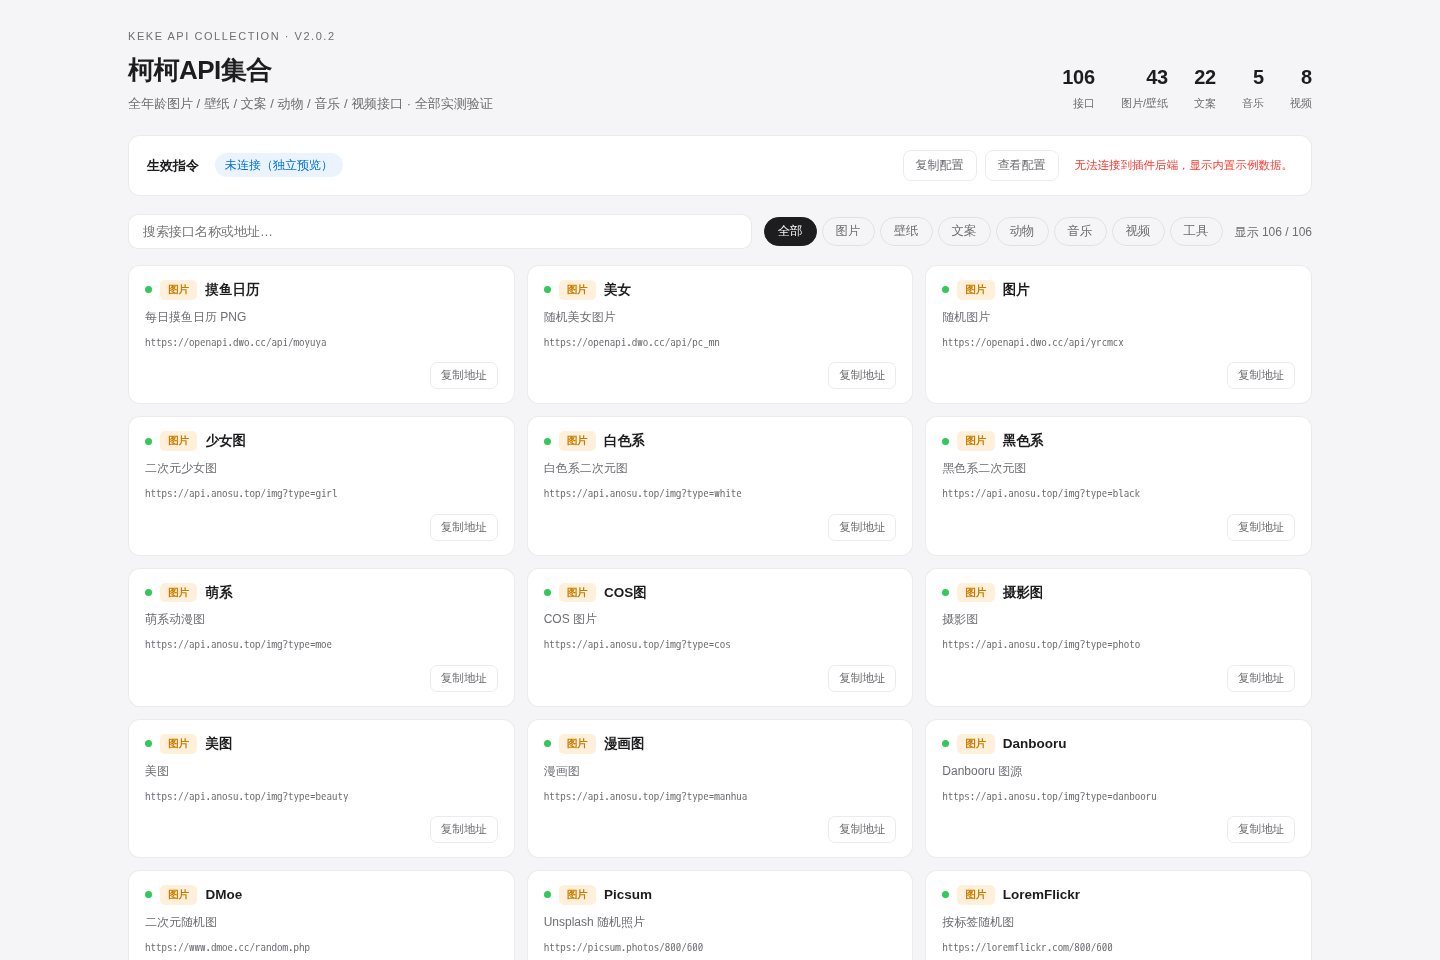
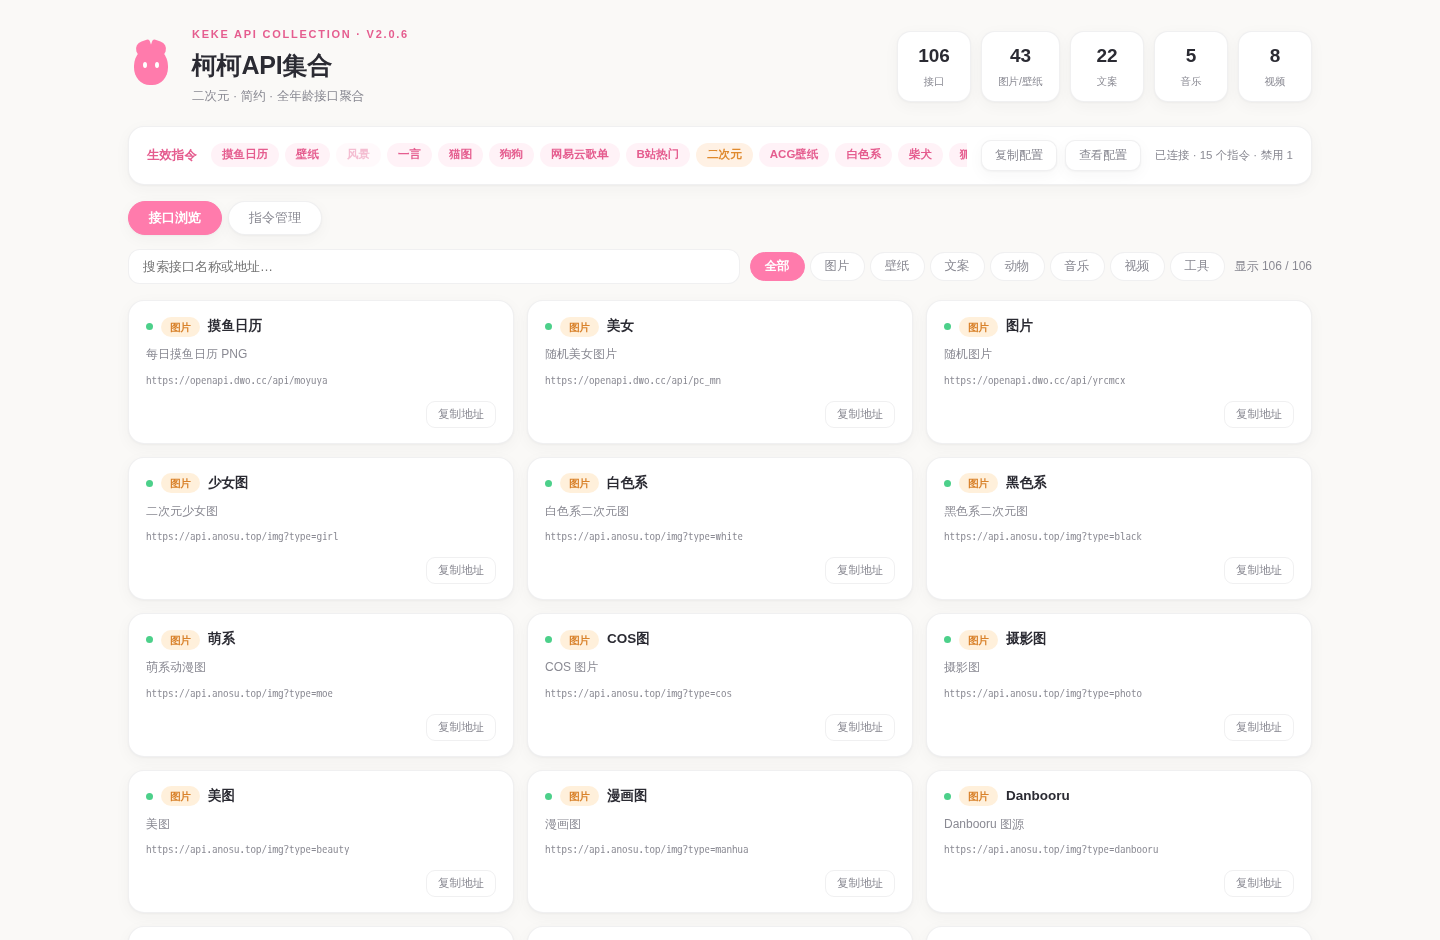
style(v2.0.6): WebUI 二次元简约风改版
- 依据 frontend-design skill 规范设计：暖白底+樱花粉主色+猫耳CSS logo+圆体标题
- 布局优化：统计卡片化、模式按钮胶囊化、卡片网格 hover 微动效
- 深色模式：深夜蓝底+柔和霓虹粉
- 实测：106 卡片/15 chips/浅深色主题均正常

diff --git a/pages/panel/index.html b/pages/panel/index.html
@@ -6,161 +6,211 @@
 <title>柯柯API集合 · 接口管理</title>
 <style>
   :root {
-    --bg: #f5f5f7; --bg-card: #ffffff; --fg: #1d1d1f; --fg-2: #6e6e73;
-    --border: rgba(0,0,0,0.08); --border-strong: rgba(0,0,0,0.14);
-    --accent: #0071e3; --accent-bg: rgba(0,113,227,0.08);
-    --green: #34c759; --red: #ff3b30;
-    --mono: ui-monospace, "SF Mono", SFMono-Regular, Menlo, Consolas, monospace;
-    --radius: 12px;
+    --bg: #faf9f7;
+    --bg-card: #ffffff;
+    --bg-soft: #f3f1ee;
+    --fg: #2b2b33;
+    --fg-2: #8a8a93;
+    --border: rgba(43,43,51,0.07);
+    --border-strong: rgba(43,43,51,0.14);
+    --accent: #ff7bac;
+    --accent-deep: #e55d8f;
+    --accent-bg: rgba(255,123,172,0.10);
+    --green: #4cd08a;
+    --red: #ff5b5b;
+    --mono: ui-monospace, "SF Mono", Menlo, Consolas, monospace;
+    --round: 16px;
+    --shadow: 0 1px 2px rgba(43,43,51,0.04), 0 4px 16px rgba(43,43,51,0.04);
   }
   [data-theme="dark"] {
-    --bg: #101012; --bg-card: #1c1c1f; --fg: #f5f5f7; --fg-2: #98989d;
-    --border: rgba(255,255,255,0.09); --border-strong: rgba(255,255,255,0.16);
-    --accent: #409cff; --accent-bg: rgba(64,156,255,0.13);
-    --green: #30d158; --red: #ff453a;
+    --bg: #16161c;
+    --bg-card: #1f1f27;
+    --bg-soft: #26262f;
+    --fg: #f0eef2;
+    --fg-2: #9a98a3;
+    --border: rgba(255,255,255,0.08);
+    --border-strong: rgba(255,255,255,0.16);
+    --accent: #ff8fb5;
+    --accent-deep: #ff7bac;
+    --accent-bg: rgba(255,143,181,0.13);
+    --green: #5be09a;
+    --red: #ff6b6b;
+    --shadow: 0 1px 2px rgba(0,0,0,0.3), 0 6px 20px rgba(0,0,0,0.25);
   }
   * { margin: 0; padding: 0; box-sizing: border-box; }
   body {
-    font-family: -apple-system, BlinkMacSystemFont, "SF Pro SC", "PingFang SC",
-                 "Hiragino Sans GB", "Microsoft YaHei", "Segoe UI", sans-serif;
-    background: var(--bg); color: var(--fg); line-height: 1.5;
-    -webkit-font-smoothing: antialiased; font-size: 14px;
+    font-family: -apple-system, BlinkMacSystemFont, "PingFang SC", "Hiragino Sans GB",
+                 "Microsoft YaHei", "Segoe UI", sans-serif;
+    background: var(--bg);
+    color: var(--fg);
+    line-height: 1.55;
+    -webkit-font-smoothing: antialiased;
+    font-size: 14px;
   }
-  .wrap { max-width: 1240px; margin: 0 auto; padding: 28px 28px 72px; }
+  .wrap { max-width: 1240px; margin: 0 auto; padding: 26px 28px 72px; }
 
-  header { display: flex; align-items: flex-end; justify-content: space-between; gap: 24px; flex-wrap: wrap; margin-bottom: 18px; }
-  .kicker { font-size: 11px; letter-spacing: 0.14em; color: var(--fg-2); text-transform: uppercase; margin-bottom: 6px; }
-  h1 { font-size: 26px; font-weight: 700; letter-spacing: -0.02em; }
-  .sub { color: var(--fg-2); font-size: 13px; margin-top: 4px; }
-  .stats { display: flex; gap: 26px; }
-  .stat { text-align: right; }
-  .stat b { font-size: 20px; font-weight: 650; display: block; font-variant-numeric: tabular-nums; }
-  .stat span { font-size: 11px; color: var(--fg-2); }
+  /* ---------- 头部：猫耳 logo + 左对齐 + 统计卡片 ---------- */
+  header { display: flex; align-items: center; gap: 18px; margin-bottom: 20px; flex-wrap: wrap; }
+  .logo { position: relative; width: 46px; height: 46px; flex: none; }
+  .logo .face {
+    position: absolute; inset: 4px 6px; background: var(--accent);
+    border-radius: 50% 50% 46% 46%;
+  }
+  .logo .ear { position: absolute; top: -2px; width: 16px; height: 16px; background: var(--accent); }
+  .logo .ear.l { left: 8px; transform: rotate(-18deg); border-radius: 60% 20% 60% 60%; }
+  .logo .ear.r { right: 8px; transform: rotate(18deg); border-radius: 20% 60% 60% 60%; }
+  .logo .eye { position: absolute; top: 19px; width: 4px; height: 6px; background: #fff; border-radius: 50%; }
+  .logo .eye.l { left: 15px; } .logo .eye.r { right: 15px; }
+  .head-txt { flex: 1; min-width: 200px; }
+  .kicker { font-size: 11px; letter-spacing: 0.16em; color: var(--accent-deep); font-weight: 600; text-transform: uppercase; margin-bottom: 3px; }
+  h1 { font-size: 25px; font-weight: 700; letter-spacing: -0.01em; font-family: "Yuanti SC", "YouYuan", "PingFang SC", sans-serif; }
+  .sub { color: var(--fg-2); font-size: 12.5px; margin-top: 2px; }
+  .stats { display: flex; gap: 10px; flex-wrap: wrap; }
+  .stat {
+    background: var(--bg-card); border: 1px solid var(--border); border-radius: 14px;
+    padding: 9px 16px; text-align: center; min-width: 74px; box-shadow: var(--shadow);
+  }
+  .stat b { font-size: 19px; font-weight: 700; display: block; font-variant-numeric: tabular-nums; color: var(--fg); }
+  .stat span { font-size: 10.5px; color: var(--fg-2); }
 
+  /* ---------- 生效指令胶囊条 ---------- */
   .live {
-    background: var(--bg-card); border: 1px solid var(--border); border-radius: var(--radius);
-    padding: 13px 18px; margin-bottom: 16px; display: flex; align-items: center; gap: 14px; flex-wrap: wrap;
+    background: var(--bg-card); border: 1px solid var(--border); border-radius: var(--round);
+    padding: 13px 18px; margin-bottom: 16px; display: flex; align-items: center; gap: 14px;
+    flex-wrap: wrap; box-shadow: var(--shadow);
   }
-  .live .lv-title { font-size: 13px; font-weight: 650; flex: none; white-space: nowrap; }
-  .live .chips { display: flex; gap: 6px; overflow-x: auto; flex: 1; min-width: 200px; padding-bottom: 2px; scrollbar-width: thin; }
-  .chip { flex: none; font-size: 12px; padding: 3px 10px; border-radius: 999px; background: var(--accent-bg); color: var(--accent); font-weight: 500; }
-  .chip.custom { background: rgba(255,149,0,0.14); color: #c77d00; }
-  [data-theme="dark"] .chip.custom { color: #ffb340; }
+  .live .lv-title { font-size: 12.5px; font-weight: 700; flex: none; white-space: nowrap; color: var(--accent-deep); }
+  .live .chips { display: flex; gap: 6px; overflow-x: auto; flex: 1; min-width: 180px; padding-bottom: 2px; scrollbar-width: thin; }
+  .chip { flex: none; font-size: 11.5px; padding: 3px 11px; border-radius: 999px; background: var(--accent-bg); color: var(--accent-deep); font-weight: 600; }
+  .chip.custom { background: rgba(255,159,67,0.14); color: #e08a2e; }
+  [data-theme="dark"] .chip.custom { color: #ffb066; }
   .live .tools { display: flex; gap: 8px; flex: none; }
   .btn {
-    border: 1px solid var(--border); background: transparent; color: var(--fg-2);
-    border-radius: 8px; font-size: 12px; padding: 6px 12px; cursor: pointer;
-    font-family: inherit; transition: all .15s; white-space: nowrap;
+    border: 1px solid var(--border); background: var(--bg-card); color: var(--fg-2);
+    border-radius: 10px; font-size: 12px; padding: 6px 13px; cursor: pointer;
+    font-family: inherit; transition: all .18s; white-space: nowrap; box-shadow: var(--shadow);
   }
-  .btn:hover { border-color: var(--accent); color: var(--accent); }
-  .btn.primary { background: var(--accent); border-color: var(--accent); color: #fff; }
-  .btn.primary:hover { opacity: .9; }
+  .btn:hover { border-color: var(--accent); color: var(--accent-deep); }
+  .btn.primary { background: var(--accent); border-color: var(--accent); color: #fff; font-weight: 600; }
+  .btn.primary:hover { opacity: .9; color: #fff; }
   .btn.danger:hover { border-color: var(--red); color: var(--red); }
   .btn.done { border-color: var(--green); color: var(--green); }
   .live .status-line { font-size: 11.5px; color: var(--fg-2); flex: none; }
   .live .status-line.error { color: var(--red); }
-  .cfg-text { display: none; width: 100%; margin-top: 10px; background: var(--bg); border: 1px solid var(--border); border-radius: 10px; font-family: var(--mono); font-size: 11px; color: var(--fg-2); padding: 12px 14px; max-height: 200px; overflow: auto; white-space: pre; }
+  .cfg-text { display: none; width: 100%; margin-top: 10px; background: var(--bg-soft); border: 1px solid var(--border); border-radius: 12px; font-family: var(--mono); font-size: 11px; color: var(--fg-2); padding: 12px 14px; max-height: 200px; overflow: auto; white-space: pre; }
   .cfg-text.show { display: block; }
 
-  /* 模式切换 */
-  .mode-tabs { display: flex; gap: 5px; margin-bottom: 14px; }
+  /* ---------- 模式切换 ---------- */
+  .mode-tabs { display: flex; gap: 6px; margin-bottom: 14px; }
   .mode {
     border: 1px solid var(--border); background: var(--bg-card); color: var(--fg-2);
-    border-radius: 9px 9px 0 0; padding: 8px 18px; font-size: 13px; cursor: pointer;
-    font-family: inherit; transition: all .15s; border-bottom: none;
+    border-radius: 999px; padding: 7px 20px; font-size: 13px; cursor: pointer;
+    font-family: inherit; transition: all .18s; box-shadow: var(--shadow);
   }
-  .mode.active { color: var(--fg); font-weight: 600; box-shadow: inset 0 -2px 0 var(--accent); }
-  .mode:hover { color: var(--fg); }
+  .mode.active { background: var(--accent); border-color: var(--accent); color: #fff; font-weight: 600; }
+  .mode:hover { color: var(--accent-deep); }
+  .mode.active:hover { color: #fff; }
 
-  /* 浏览模式 */
-  .toolbar { display: flex; gap: 12px; margin-bottom: 16px; align-items: center; flex-wrap: wrap; }
+  /* ---------- 工具栏 ---------- */
+  .toolbar { display: flex; gap: 10px; margin-bottom: 16px; align-items: center; flex-wrap: wrap; }
   input[type="search"], input[type="text"] {
-    background: var(--bg-card); border: 1px solid var(--border); border-radius: 10px;
-    color: var(--fg); padding: 9px 14px; font-size: 13px; outline: none;
-    transition: border-color .15s, box-shadow .15s; font-family: inherit;
+    background: var(--bg-card); border: 1px solid var(--border); border-radius: 12px;
+    color: var(--fg); padding: 9px 14px; font-size: 13px; outline: none; font-family: inherit;
+    transition: border-color .18s, box-shadow .18s;
   }
-  input[type="search"] { flex: 1; min-width: 240px; }
+  input[type="search"] { flex: 1; min-width: 230px; }
   input[type="search"]:focus, input[type="text"]:focus { border-color: var(--accent); box-shadow: 0 0 0 3px var(--accent-bg); }
   .tabs { display: flex; gap: 5px; flex-wrap: wrap; }
-  .tab { border: 1px solid var(--border); background: transparent; color: var(--fg-2); border-radius: 999px; padding: 5px 13px; font-size: 12.5px; cursor: pointer; transition: all .15s; font-family: inherit; }
-  .tab:hover { color: var(--fg); }
-  .tab.active { background: var(--fg); border-color: var(--fg); color: var(--bg); }
+  .tab { border: 1px solid var(--border); background: var(--bg-card); color: var(--fg-2); border-radius: 999px; padding: 5px 14px; font-size: 12.5px; cursor: pointer; transition: all .18s; font-family: inherit; }
+  .tab:hover { color: var(--accent-deep); border-color: var(--accent); }
+  .tab.active { background: var(--accent); border-color: var(--accent); color: #fff; font-weight: 600; }
   .count { font-size: 12px; color: var(--fg-2); margin-left: auto; font-variant-numeric: tabular-nums; }
 
-  .grid { display: grid; grid-template-columns: repeat(auto-fill, minmax(300px, 1fr)); gap: 12px; }
-  .card { background: var(--bg-card); border: 1px solid var(--border); border-radius: var(--radius); padding: 14px 16px; display: flex; flex-direction: column; gap: 8px; transition: border-color .15s; }
-  .card:hover { border-color: var(--border-strong); }
+  /* ---------- 卡片网格 ---------- */
+  .grid { display: grid; grid-template-columns: repeat(auto-fill, minmax(295px, 1fr)); gap: 13px; }
+  .card {
+    background: var(--bg-card); border: 1px solid var(--border); border-radius: var(--round);
+    padding: 15px 17px; display: flex; flex-direction: column; gap: 8px;
+    transition: transform .18s, border-color .18s, box-shadow .18s; box-shadow: var(--shadow);
+  }
+  .card:hover { transform: translateY(-2px); border-color: var(--accent); box-shadow: 0 6px 24px var(--accent-bg); }
   .card-top { display: flex; align-items: center; gap: 8px; }
   .dot { width: 7px; height: 7px; border-radius: 50%; flex: none; }
   .dot.ok { background: var(--green); }
-  .dot.cand { background: #aeaeb2; }
-  .badge { flex: none; font-size: 10.5px; padding: 2px 8px; border-radius: 5px; font-weight: 600; }
-  .badge-img   { background: rgba(255,149,0,0.14);  color: #c77d00; }
-  .badge-wall  { background: rgba(0,122,255,0.13);   color: #0066cc; }
-  .badge-text  { background: rgba(52,199,89,0.13);   color: #248a3d; }
-  .badge-animal{ background: rgba(255,45,85,0.12);   color: #d61f4a; }
-  .badge-music { background: rgba(175,82,222,0.13);  color: #9337c0; }
-  .badge-video { background: rgba(255,59,48,0.12);   color: #c9302a; }
-  .badge-tool  { background: rgba(142,142,147,0.16); color: #6d6d73; }
-  [data-theme="dark"] .badge-img   { color: #ffb340; }
-  [data-theme="dark"] .badge-wall  { color: #6db9ff; }
-  [data-theme="dark"] .badge-text  { color: #6fdc8c; }
-  [data-theme="dark"] .badge-animal{ color: #ff6b84; }
-  [data-theme="dark"] .badge-music { color: #cd8cff; }
-  [data-theme="dark"] .badge-video { color: #ff7a72; }
-  [data-theme="dark"] .badge-tool  { color: #b0b0b6; }
-  .card .name { font-size: 13.5px; font-weight: 600; }
+  .dot.cand { background: #c9c7c2; }
+  [data-theme="dark"] .dot.cand { background: #55545e; }
+  .badge { flex: none; font-size: 10.5px; padding: 2px 9px; border-radius: 999px; font-weight: 600; }
+  .badge-img   { background: rgba(255,149,0,0.14);  color: #d9822b; }
+  .badge-wall  { background: rgba(0,122,255,0.13);   color: #2d7fd6; }
+  .badge-text  { background: rgba(52,199,89,0.14);   color: #2ba654; }
+  .badge-animal{ background: rgba(255,45,85,0.12);   color: #e0526f; }
+  .badge-music { background: rgba(175,82,222,0.14);  color: #a855d8; }
+  .badge-video { background: rgba(255,59,48,0.12);   color: #e05a54; }
+  .badge-tool  { background: rgba(142,142,147,0.16); color: #7d7d85; }
+  [data-theme="dark"] .badge-img   { color: #ffb066; }
+  [data-theme="dark"] .badge-wall  { color: #7db9ff; }
+  [data-theme="dark"] .badge-text  { color: #7ee0a2; }
+  [data-theme="dark"] .badge-animal{ color: #ff8fa4; }
+  [data-theme="dark"] .badge-music { color: #d49df5; }
+  [data-theme="dark"] .badge-video { color: #ff9a94; }
+  [data-theme="dark"] .badge-tool  { color: #b9b8c0; }
+  .card .name { font-size: 13.5px; font-weight: 700; font-family: "Yuanti SC", "YouYuan", "PingFang SC", sans-serif; }
   .card .note { font-size: 12px; color: var(--fg-2); }
   .card .url { font-family: var(--mono); font-size: 11px; color: var(--fg-2); white-space: nowrap; overflow: hidden; text-overflow: ellipsis; direction: rtl; text-align: left; }
-  .card-foot { display: flex; justify-content: space-between; margin-top: auto; padding-top: 4px; }
-  .copy { border: 1px solid var(--border); background: transparent; color: var(--fg-2); border-radius: 7px; font-size: 11.5px; padding: 5px 10px; cursor: pointer; font-family: inherit; transition: all .15s; }
-  .copy:hover { border-color: var(--accent); color: var(--accent); }
+  .card-foot { display: flex; justify-content: flex-end; margin-top: auto; padding-top: 4px; }
+  .copy { border: 1px solid var(--border); background: transparent; color: var(--fg-2); border-radius: 9px; font-size: 11.5px; padding: 5px 11px; cursor: pointer; font-family: inherit; transition: all .18s; }
+  .copy:hover { border-color: var(--accent); color: var(--accent-deep); background: var(--accent-bg); }
   .copy.done { border-color: var(--green); color: var(--green); }
   .empty { grid-column: 1 / -1; padding: 56px 20px; text-align: center; color: var(--fg-2); font-size: 13px; }
 
-  /* 管理模式 */
+  /* ---------- 管理模式 ---------- */
   .manage { display: none; }
   .manage.show { display: block; }
   .m-toolbar { display: flex; gap: 10px; align-items: center; margin-bottom: 12px; flex-wrap: wrap; }
   .m-toolbar .m-status { font-size: 12px; color: var(--fg-2); }
   .m-toolbar .m-status.error { color: var(--red); }
   .m-toolbar .m-status.ok { color: var(--green); }
-  .m-table { background: var(--bg-card); border: 1px solid var(--border); border-radius: var(--radius); overflow: hidden; }
-  .m-row { display: grid; grid-template-columns: 190px 1fr 100px 70px 140px; gap: 10px; padding: 8px 14px; border-bottom: 1px solid var(--border); align-items: center; }
+  .m-table { background: var(--bg-card); border: 1px solid var(--border); border-radius: var(--round); overflow: hidden; box-shadow: var(--shadow); }
+  .m-row { display: grid; grid-template-columns: 190px 1fr 100px 70px 140px; gap: 10px; padding: 8px 14px; border-bottom: 1px solid var(--border); align-items: center; transition: background .15s; }
+  .m-row:last-child { border-bottom: none; }
+  .m-row:hover { background: var(--accent-bg); }
   .m-row.off { opacity: .55; }
   .m-row.off .name-input { text-decoration: line-through; }
-  .m-row:last-child { border-bottom: none; }
-  .m-row.head { font-size: 11px; color: var(--fg-2); font-weight: 600; letter-spacing: 0.04em; background: var(--bg); }
-  .m-row input[type="text"] { width: 100%; padding: 7px 10px; font-size: 12.5px; border-radius: 8px; }
+  .m-row.head { font-size: 11px; color: var(--fg-2); font-weight: 700; letter-spacing: 0.05em; background: var(--bg-soft); }
+  .m-row.head:hover { background: var(--bg-soft); }
+  .m-row input[type="text"] { width: 100%; padding: 7px 10px; font-size: 12.5px; border-radius: 9px; }
   .m-row .url-input { font-family: var(--mono); font-size: 11.5px; }
-  .m-row .op { border: 1px solid var(--border); background: transparent; color: var(--fg-2); border-radius: 7px; font-size: 12px; padding: 6px 0; cursor: pointer; font-family: inherit; transition: all .15s; }
-  .m-row .op.test:hover { border-color: var(--accent); color: var(--accent); }
-  .m-row .op.del:hover { border-color: var(--red); color: var(--red); }
+  .m-row .op { border: 1px solid var(--border); background: transparent; color: var(--fg-2); border-radius: 9px; font-size: 12px; padding: 6px 0; cursor: pointer; font-family: inherit; transition: all .15s; }
+  .m-row .op.test:hover { border-color: var(--accent); color: var(--accent-deep); background: var(--accent-bg); }
+  .m-row .op.del:hover { border-color: var(--red); color: var(--red); background: rgba(255,91,91,0.08); }
   .m-row .op:disabled { opacity: .45; cursor: wait; }
-  /* 开关 */
   .switch { position: relative; display: inline-block; width: 38px; height: 22px; flex: none; }
   .switch input { opacity: 0; width: 0; height: 0; }
-  .switch .slider { position: absolute; cursor: pointer; inset: 0; background: #aeaeb2; border-radius: 999px; transition: .2s; }
-  .switch .slider:before { content: ""; position: absolute; height: 16px; width: 16px; left: 3px; bottom: 3px; background: #fff; border-radius: 50%; transition: .2s; }
-  .switch input:checked + .slider { background: var(--green); }
+  .switch .slider { position: absolute; cursor: pointer; inset: 0; background: #c9c7c2; border-radius: 999px; transition: .2s; }
+  .switch .slider:before { content: ""; position: absolute; height: 16px; width: 16px; left: 3px; bottom: 3px; background: #fff; border-radius: 50%; transition: .2s; box-shadow: 0 1px 3px rgba(0,0,0,0.2); }
+  .switch input:checked + .slider { background: var(--accent); }
   .switch input:checked + .slider:before { transform: translateX(16px); }
   .m-new { display: grid; grid-template-columns: 190px 1fr 100px 70px 140px; gap: 10px; padding: 12px 14px; }
-  .m-new input[type="text"] { width: 100%; padding: 7px 10px; font-size: 12.5px; border-radius: 8px; }
+  .m-new input[type="text"] { width: 100%; padding: 7px 10px; font-size: 12.5px; border-radius: 9px; }
   .m-new .url-input { font-family: var(--mono); font-size: 11.5px; }
-  .m-scroll { max-height: 60vh; overflow-y: auto; }
+  .m-scroll { max-height: 58vh; overflow-y: auto; }
   .m-actions { margin-top: 14px; display: flex; gap: 10px; align-items: center; }
 
-  footer { margin-top: 26px; font-size: 12px; color: var(--fg-2); }
+  footer { margin-top: 26px; font-size: 12px; color: var(--fg-2); text-align: center; }
   footer code { font-family: var(--mono); font-size: 11px; background: var(--bg-card); border: 1px solid var(--border); padding: 2px 7px; border-radius: 6px; }
 </style>
 </head>
 <body>
 <div class="wrap">
   <header>
-    <div>
-      <div class="kicker">Keke API Collection · v2.0.4</div>
+    <div class="logo" aria-hidden="true">
+      <span class="ear l"></span><span class="ear r"></span>
+      <span class="face"></span><span class="eye l"></span><span class="eye r"></span>
+    </div>
+    <div class="head-txt">
+      <div class="kicker">Keke API Collection · v2.0.6</div>
       <h1>柯柯API集合</h1>
-      <div class="sub">全年龄图片 / 壁纸 / 文案 / 动物 / 音乐 / 视频接口 · 全部实测验证</div>
+      <div class="sub">二次元 · 简约 · 全年龄接口聚合</div>
     </div>
     <div class="stats">
       <div class="stat"><b id="st-total">0</b><span>接口</span></div>
@@ -187,7 +237,6 @@
     <button class="mode" data-mode="manage">指令管理</button>
   </div>
 
-  <!-- 浏览模式 -->
   <div id="view-browse">
     <div class="toolbar">
       <input type="search" id="search" placeholder="搜索接口名称或地址…">
@@ -206,7 +255,6 @@
     <div class="grid" id="grid"></div>
   </div>
 
-  <!-- 管理模式 -->
   <div class="manage" id="view-manage">
     <div class="m-toolbar">
       <button class="btn primary" id="m-save">💾 保存全部修改</button>
@@ -237,6 +285,7 @@
 <script src="/api/plugin/page/bridge-sdk.js"></script>
 <script>
 const CATS = {"图片":"badge-img","壁纸":"badge-wall","文案":"badge-text","动物":"badge-animal","音乐":"badge-music","视频":"badge-video","工具":"badge-tool"};
+
 const DATA = [
 ["摸鱼日历","图片","https://openapi.dwo.cc/api/moyuya","每日摸鱼日历 PNG",1],
 ["美女","图片","https://openapi.dwo.cc/api/pc_mn","随机美女图片",1],
@@ -345,6 +394,7 @@ const DATA = [
 ["随机用户","工具","https://randomuser.me/api/","随机用户资料",0],
 ["RestCountries","工具","https://restcountries.com/v3.1/all","国家数据",0],
 ];
+
 
 const gridEl = document.getElementById("grid");
 const countEl = document.getElementById("count");
@@ -598,6 +648,10 @@ searchEl.addEventListener("input", render);
 calcStats();
 render();
 loadLiveConfig();
+
+
+
+
 </script>
 </body>
 </html>

diff --git a/README.md b/README.md
@@ -4,7 +4,7 @@
 
 **AstrBot 多功能 API 聚合插件 —— 图片 · 壁纸 · 文案 · 动物 · 音乐 · 视频，一个插件全部搞定**
 
-[![Version](https://img.shields.io/badge/version-v2.0.5-0071e3.svg)](https://github.com/KeKe0904/astrbot_plugin_keke_api_collection)
+[![Version](https://img.shields.io/badge/version-v2.0.6-0071e3.svg)](https://github.com/KeKe0904/astrbot_plugin_keke_api_collection)
 [![AstrBot](https://img.shields.io/badge/AstrBot-%3E%3D3.5.19-409cff.svg)](https://github.com/AstrBotDevs/AstrBot)
 [![APIs](https://img.shields.io/badge/API-513%2B-34c759.svg)](500源总清单.md)
 [![License](https://img.shields.io/badge/License-MIT-gray.svg)](LICENSE)

diff --git a/CHANGELOG.md b/CHANGELOG.md
@@ -1,5 +1,15 @@
 # 变更日志
 
+## [v2.0.6] - 2026-08-08
+
+### 优化
+- WebUI 全面改版为**二次元简约风**（依据 frontend-design skill 设计规范）：
+  - 色彩：暖白底 + 樱花粉主色 + 墨黑文字（深色模式为深夜蓝 + 柔和霓虹粉）
+  - 签名元素：纯 CSS 绘制的猫耳 logo
+  - 字体：标题使用圆体（Yuanti/YouYuan）增强二次元氛围
+  - 布局：统计数字卡片化、模式按钮胶囊化、卡片网格 hover 微动效（上浮 + 粉色描边）
+  - 细节：圆角统一 16px、柔和阴影、粉色 focus 光晕、开关启用态改为主色
+
 ## [v2.0.5] - 2026-08-08
 
 ### 新增
